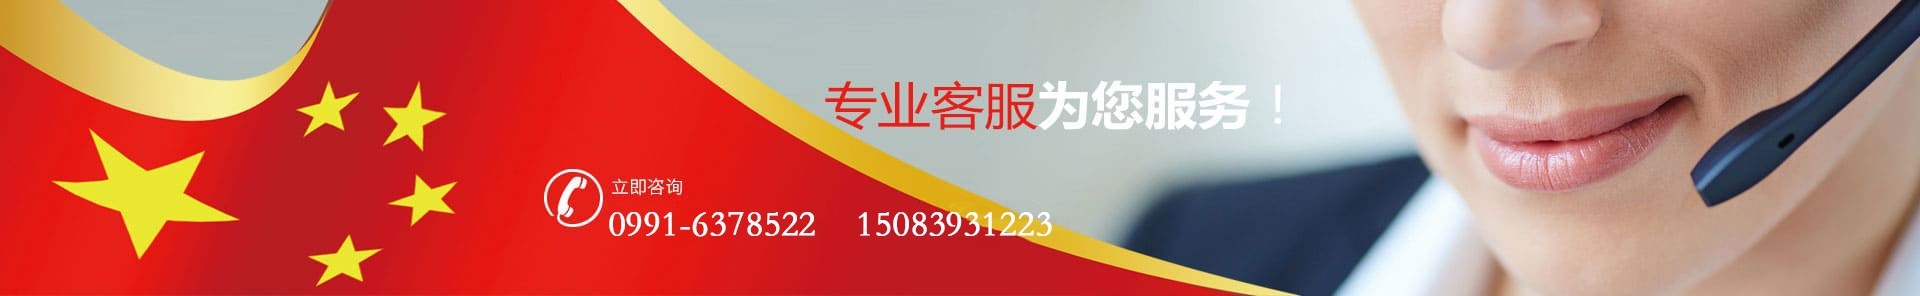
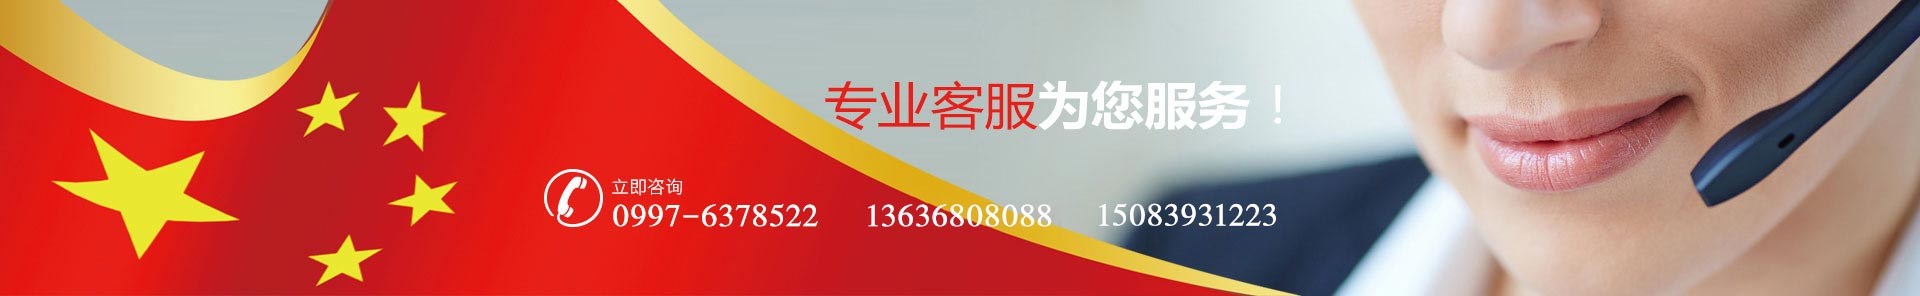
Web2.7 (#15)
* 🚑 企业文化跳转

* 🐛首页线路的修改

* 🐛 10.21一些问题的修复

* 🎨 首页图片上 oss 链接

* 🐛 所有bug修复

* confict resolve

* 🐛 报错修复

* 没加 scoped

* 常见问题显示两行

* 🐛 号码的修改

Changed region(s): [[0.2812, 0.5777, 0.6875, 0.8209]]

diff --git a/src/views/talents/components/main/component.js b/src/views/talents/components/main/component.js
@@ -93,7 +93,7 @@ export default {
               title: '应聘方式：',
               list: [
                 {
-                  content:'电话： 0991-6378522'
+                  content:'电话： 0997-6378522'
                 },
                 {
                   content:'邮件：364361414@qq.com'
@@ -168,7 +168,7 @@ export default {
               title: '应聘方式：',
               list: [
                 {
-                  content:'电话： 0991-6378522'
+                  content:'电话： 0997-6378522'
                 },
                 {
                   content:'邮件：364361414@qq.com'
@@ -264,7 +264,7 @@ export default {
               title: '应聘方式：',
               list: [
                 {
-                  content:'电话： 0991-6378522'
+                  content:'电话： 0997-6378522'
                 },
                 {
                   content:'邮件：364361414@qq.com'

diff --git a/src/components/footer/index.vue b/src/components/footer/index.vue
@@ -51,7 +51,10 @@
       </div>
       <div class="menu last">
         <p>地址：新疆阿拉尔市秋收大道1001号</p>
-        <p>咨询热线： 15083931223 &nbsp; &nbsp; &nbsp; &nbsp;0991-6378522</p>
+        <p>
+          咨询热线： 13636808088 &nbsp; &nbsp; &nbsp; &nbsp;15083931223&nbsp;
+          &nbsp; &nbsp; &nbsp;0997-6378522
+        </p>
         <p>邮箱：364361414@qq.com</p>
         <p>
           备案号：

diff --git a/src/views/peixunxianluxiangqing/components/main/index.vue b/src/views/peixunxianluxiangqing/components/main/index.vue
@@ -66,7 +66,9 @@
                 <ul>
                   <li>
                     咨询热线：
-                    <span>15083931223</span>
+                    <span>13636808088</span>
+                    <br />
+                    <span style="margin-left:74px">15083931223</span>
                   </li>
                   <li>
                     <a href="">

diff --git a/src/views/lianxiwomen/components/main/component.js b/src/views/lianxiwomen/components/main/component.js
@@ -19,7 +19,7 @@ export default {
           content:'地址：新疆阿拉尔市秋收大道1001号'
         },
         {
-          content:'电话： 0991-6378522 15083931223'
+          content:'电话： 0997-6378522 13636808088 15083931223'
         },
         {
           content:'邮箱：364361414@qq.com'

diff --git a/src/components/header/index.vue b/src/components/header/index.vue
@@ -30,8 +30,9 @@
       </div>
       <div class="header-logo-right">
         <p>全国统一服务热线：</p>
+        <b>13636808088</b>
         <b>15083931223</b>
-        <b> 0991-6378522</b>
+        <b> 0997-6378522</b>
       </div>
     </div>
     <div class="header-bar">

diff --git a/src/components/header/style.scss b/src/components/header/style.scss
@@ -74,7 +74,7 @@ h1 {
   margin-top: 10px;
   padding-left: 55px;
   margin-right: 30px;
-  background: url("../header/img/phone.png") no-repeat 0px 30%;
+  background: url("../header/img/phone.png") no-repeat 0px 55%;
   p {
     font-size: 13px;
     color: #858585;

diff --git a/src/views/talents/components/main/index.vue b/src/views/talents/components/main/index.vue
@@ -37,6 +37,7 @@
             <p>
               <span class="subspan">咨询热线：</span>
             </p>
+            <p class="subtel">13636808088</p>
             <p class="subtel">15083931223</p>
           </div>
         </div>

diff --git a/src/components/contactUs/index.vue b/src/components/contactUs/index.vue
@@ -12,6 +12,7 @@
       <p>
         <span class="subspan">咨询热线：</span>
       </p>
+      <p class="subtel">13636808088</p>
       <p class="subtel">15083931223</p>
     </div>
   </div>

diff --git a/src/views/home/components/dianhuazixun/style.scss b/src/views/home/components/dianhuazixun/style.scss
@@ -12,7 +12,7 @@
     color: #fff;
     float: left;
     margin-left: 170px;
-    margin-top: 275px;
+    margin-top: 271px;
     word-spacing: -1.5px;
     b {
       font-size: 22px;

diff --git a/src/components/affix/index.vue b/src/components/affix/index.vue
@@ -19,6 +19,8 @@
         <div class="tip">
           服务电话:
           <br />
+          13636808088
+          <br />
           15083931223
         </div>
       </div>

diff --git a/src/views/home/components/dianhuazixun/index.vue b/src/views/home/components/dianhuazixun/index.vue
@@ -3,6 +3,8 @@
     <p>
       热线服务：
       <b>15083931223</b>
+      <br />
+      <b style="margin-left:99px">13636808088</b>
     </p>
     <ul>
       <li>
